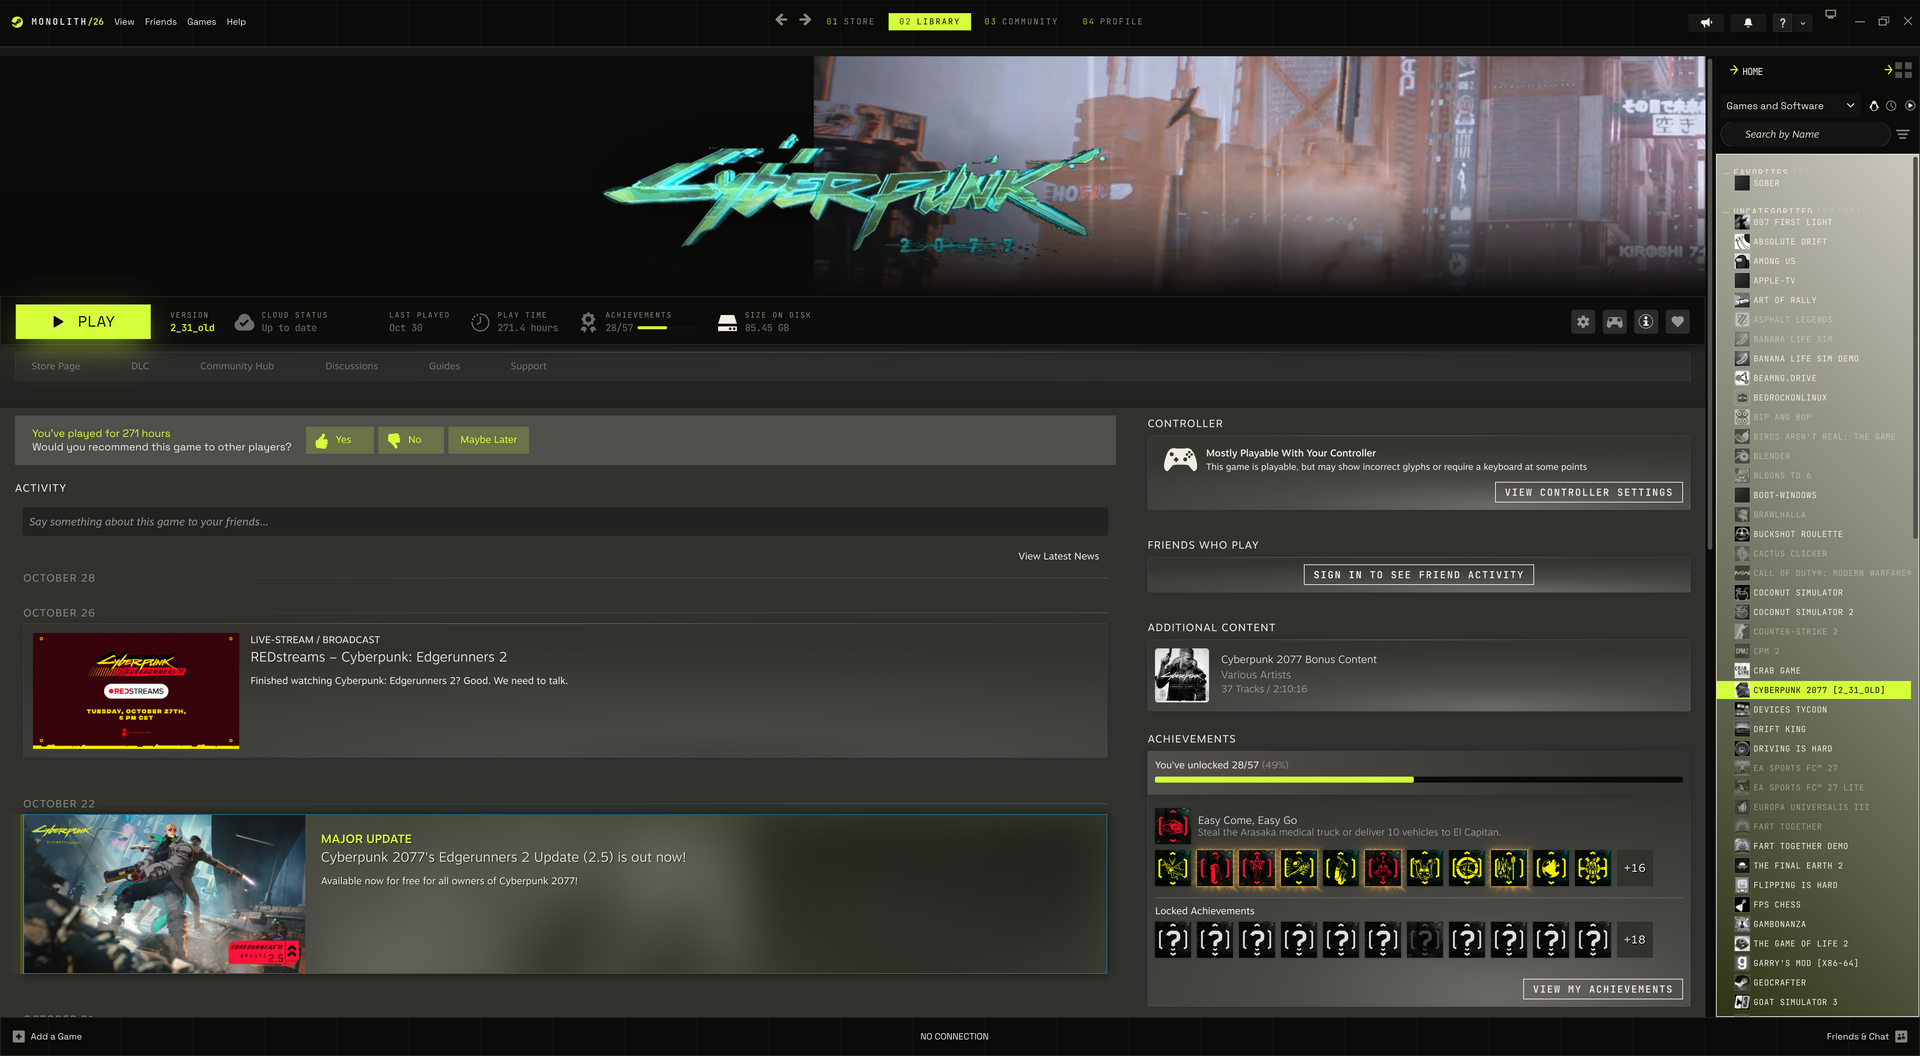
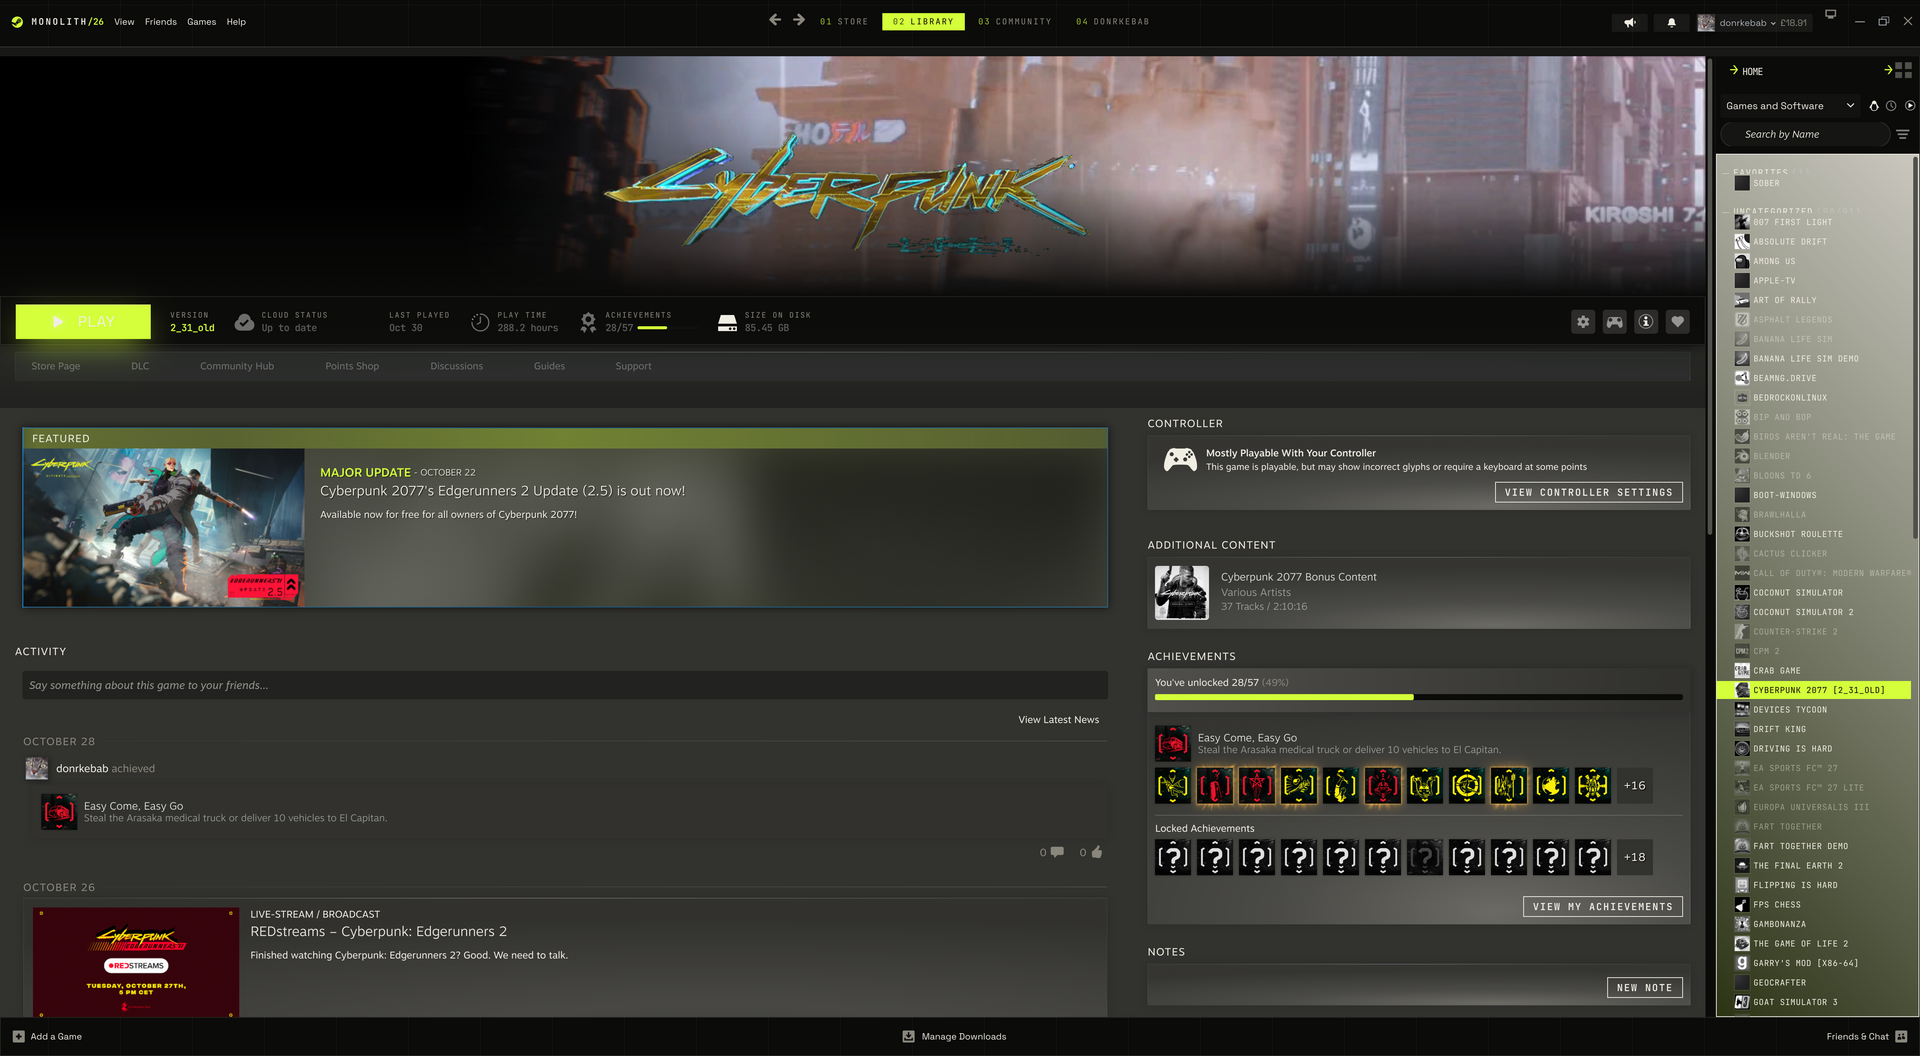
Centered game art, solid sidebar colors, refreshed screenshots

diff --git a/mx/main.css b/mx/main.css
@@ -1055,12 +1055,10 @@ body::before{content:"";position:fixed;inset:-20%;pointer-events:none;z-index:0;
 ._1rDh5rXSFZJOqCa4UpnI4z{margin-top:6px!important}
 ._26Gmfe09NRsnF7eprTZYdY{margin:8px 12px!important;height:30px!important}
 ._39oUCO1OuizVPwcnnv88no>*,._39oUCO1OuizVPwcnnv88no>*>*{align-self:center!important}
-/* hero art: fill the banner edge to edge; hide the blurred fallback layer */
-.NZMJ6g2iVnFsOOp-lDmIP .HNbe3eZf6H7dtJ042x1vM.HSQWw9HUAP6jtA2OZjS-u{display:none!important}
-.NZMJ6g2iVnFsOOp-lDmIP .QlR9EFwTdUNm_J5vx54_Z{left:0!important;right:0!important;width:100%!important}
-.NZMJ6g2iVnFsOOp-lDmIP{background:var(--bg-solid)!important}
-.NZMJ6g2iVnFsOOp-lDmIP .HNbe3eZf6H7dtJ042x1vM:not(.HSQWw9HUAP6jtA2OZjS-u){width:100%!important;height:100%!important;object-fit:contain!important;object-position:center!important;left:0!important;transform:none!important;-webkit-mask-image:linear-gradient(90deg,transparent 0,#000 22%,#000 78%,transparent 100%);mask-image:linear-gradient(90deg,transparent 0,#000 22%,#000 78%,transparent 100%)}
-._3ydigb6zZAjJ0JCDgHwSYA._2AzIX5kl9k6JnxLfR5H4kX:has(.SVGIcon_Play) *,._3ydigb6zZAjJ0JCDgHwSYA._2AzIX5kl9k6JnxLfR5H4kX:has(.SVGIcon_Download) *{color:inherit!important;fill:currentColor!important}
+/* hero art: Steam's own centring (max 1660px); blurred/mirrored fills hidden; solid black sides with a soft edge */
+.NZMJ6g2iVnFsOOp-lDmIP{overflow:hidden!important;background:#000!important}
+.NZMJ6g2iVnFsOOp-lDmIP .HNbe3eZf6H7dtJ042x1vM.HSQWw9HUAP6jtA2OZjS-u,.NZMJ6g2iVnFsOOp-lDmIP .HNbe3eZf6H7dtJ042x1vM._3_IUVzR9tpG_JKEjhwXEAb{display:none!important}
+.NZMJ6g2iVnFsOOp-lDmIP .HNbe3eZf6H7dtJ042x1vM:not(.HSQWw9HUAP6jtA2OZjS-u):not(._3_IUVzR9tpG_JKEjhwXEAb){-webkit-mask-image:linear-gradient(90deg,transparent,#000 12%,#000 88%,transparent),linear-gradient(#000 70%,transparent)!important;-webkit-mask-composite:source-in!important;mask-composite:intersect!important;-webkit-mask-size:100% 100%!important;-webkit-mask-repeat:no-repeat!important}
 /* ===== layout layer: floating composition, motion, spotlight ===== */
 :root{--ease:cubic-bezier(.2,.9,.25,1)}
 /* panel recipe */

diff --git a/mx/opt/accent-ice.css b/mx/opt/accent-ice.css
@@ -1,2 +1,2 @@
-:root{--acc:#7fe7ff!important;--acc2:#f1eee4!important;--ring:#7fe7ff40!important;--spot:#7fe7ff1f!important;--line-hi:#7fe7ff66!important;--sel:linear-gradient(100deg,#7fe7ff,#f1eee4)!important;--sel-fg:#0b0b0a!important;--nav-sel-fg:#0b0b0a!important;--btn-pri:linear-gradient(110deg,#7fe7ff,#f1eee4,#7fe7ff)!important;--btn-pri-fg:#0b0b0a!important;--price-bg:#7fe7ff!important;--price-fg:#0b0b0a!important;--st-accent-1:127,231,255!important;--st-accent-2:241,238,228!important;--st-blue:127,231,255!important;--st-blue-hover:241,238,228!important}
+:root{--acc:#7fe7ff!important;--acc2:#f1eee4!important;--ring:#7fe7ff40!important;--spot:#7fe7ff1f!important;--line-hi:#7fe7ff66!important;--sel:#7fe7ff!important;--sel-fg:#0b0b0a!important;--nav-sel-fg:#0b0b0a!important;--btn-pri:linear-gradient(110deg,#7fe7ff,#f1eee4,#7fe7ff)!important;--btn-pri-fg:#0b0b0a!important;--price-bg:#7fe7ff!important;--price-fg:#0b0b0a!important;--st-accent-1:127,231,255!important;--st-accent-2:241,238,228!important;--st-blue:127,231,255!important;--st-blue-hover:241,238,228!important}
 :root{--nav-sel-bg:#7fe7ff!important}

diff --git a/mx/opt/accent-ultraviolet.css b/mx/opt/accent-ultraviolet.css
@@ -1,2 +1,2 @@
-:root{--acc:#a78bff!important;--acc2:#d4ff3a!important;--ring:#a78bff40!important;--spot:#a78bff1f!important;--line-hi:#a78bff66!important;--sel:linear-gradient(100deg,#a78bff,#d4ff3a)!important;--sel-fg:#0b0b0a!important;--nav-sel-fg:#0b0b0a!important;--btn-pri:linear-gradient(110deg,#a78bff,#d4ff3a,#a78bff)!important;--btn-pri-fg:#0b0b0a!important;--price-bg:#a78bff!important;--price-fg:#0b0b0a!important;--st-accent-1:167,139,255!important;--st-accent-2:212,255,58!important;--st-blue:167,139,255!important;--st-blue-hover:212,255,58!important}
+:root{--acc:#a78bff!important;--acc2:#d4ff3a!important;--ring:#a78bff40!important;--spot:#a78bff1f!important;--line-hi:#a78bff66!important;--sel:#a78bff!important;--sel-fg:#0b0b0a!important;--nav-sel-fg:#0b0b0a!important;--btn-pri:linear-gradient(110deg,#a78bff,#d4ff3a,#a78bff)!important;--btn-pri-fg:#0b0b0a!important;--price-bg:#a78bff!important;--price-fg:#0b0b0a!important;--st-accent-1:167,139,255!important;--st-accent-2:212,255,58!important;--st-blue:167,139,255!important;--st-blue-hover:212,255,58!important}
 :root{--nav-sel-bg:#a78bff!important}

diff --git a/mx/opt/accent-signal.css b/mx/opt/accent-signal.css
@@ -1,2 +1,2 @@
-:root{--acc:#ff4d1f!important;--acc2:#ffd400!important;--ring:#ff4d1f40!important;--spot:#ff4d1f1f!important;--line-hi:#ff4d1f66!important;--sel:linear-gradient(100deg,#ff4d1f,#ffd400)!important;--sel-fg:#ffffff!important;--nav-sel-fg:#ffffff!important;--btn-pri:linear-gradient(110deg,#ff4d1f,#ffd400,#ff4d1f)!important;--btn-pri-fg:#ffffff!important;--price-bg:#ff4d1f!important;--price-fg:#ffffff!important;--st-accent-1:255,77,31!important;--st-accent-2:255,212,0!important;--st-blue:255,77,31!important;--st-blue-hover:255,212,0!important}
+:root{--acc:#ff4d1f!important;--acc2:#ffd400!important;--ring:#ff4d1f40!important;--spot:#ff4d1f1f!important;--line-hi:#ff4d1f66!important;--sel:#ff4d1f!important;--sel-fg:#ffffff!important;--nav-sel-fg:#ffffff!important;--btn-pri:linear-gradient(110deg,#ff4d1f,#ffd400,#ff4d1f)!important;--btn-pri-fg:#ffffff!important;--price-bg:#ff4d1f!important;--price-fg:#ffffff!important;--st-accent-1:255,77,31!important;--st-accent-2:255,212,0!important;--st-blue:255,77,31!important;--st-blue-hover:255,212,0!important}
 :root{--nav-sel-bg:#ff4d1f!important}
